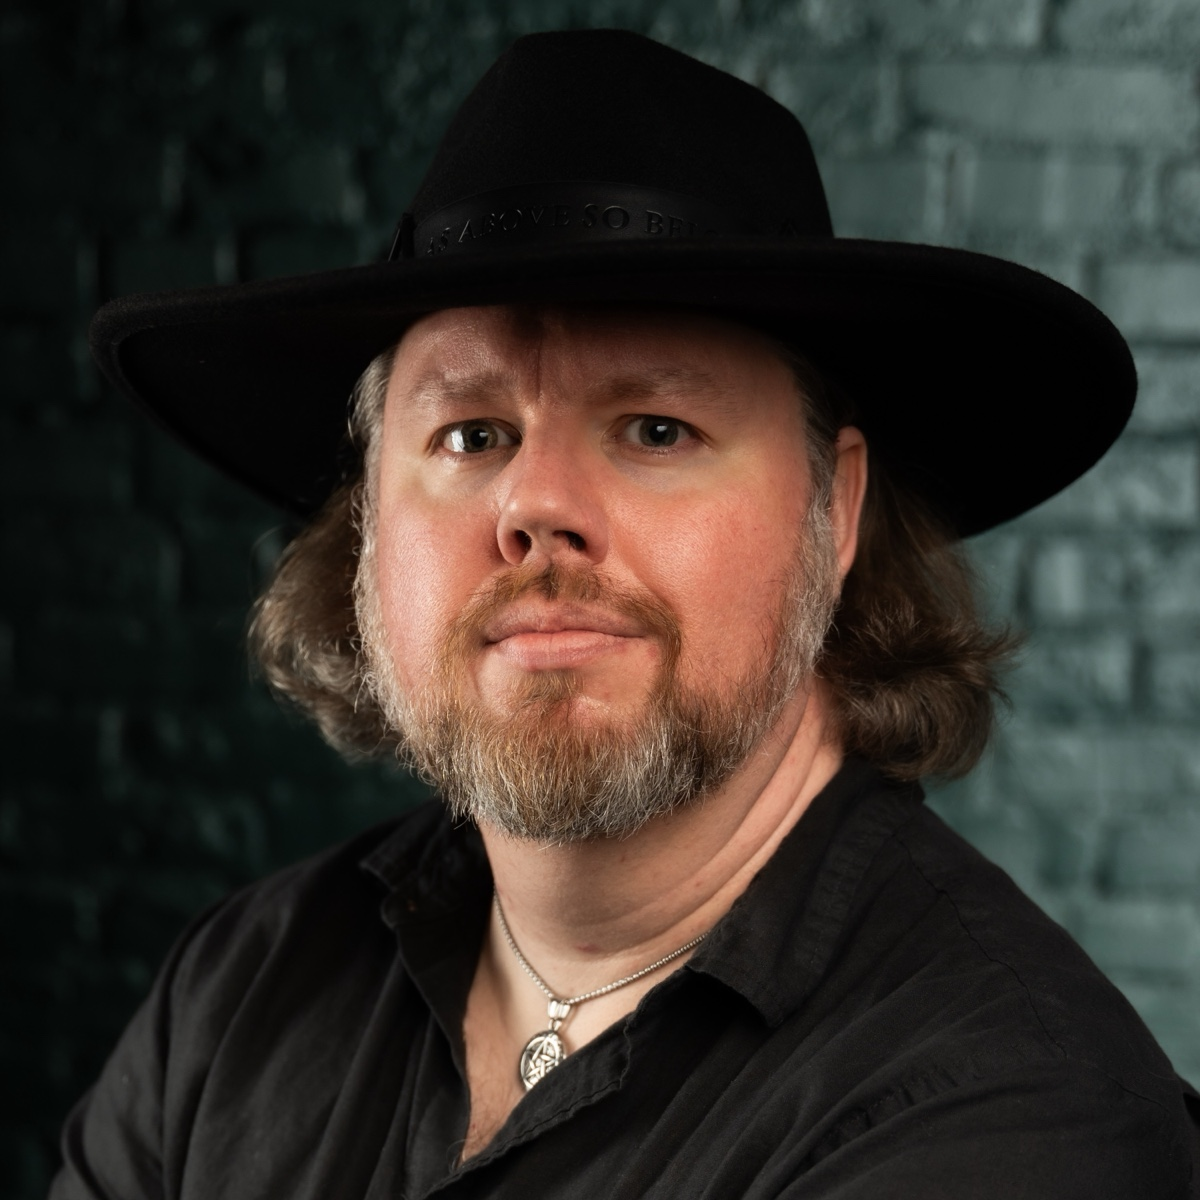
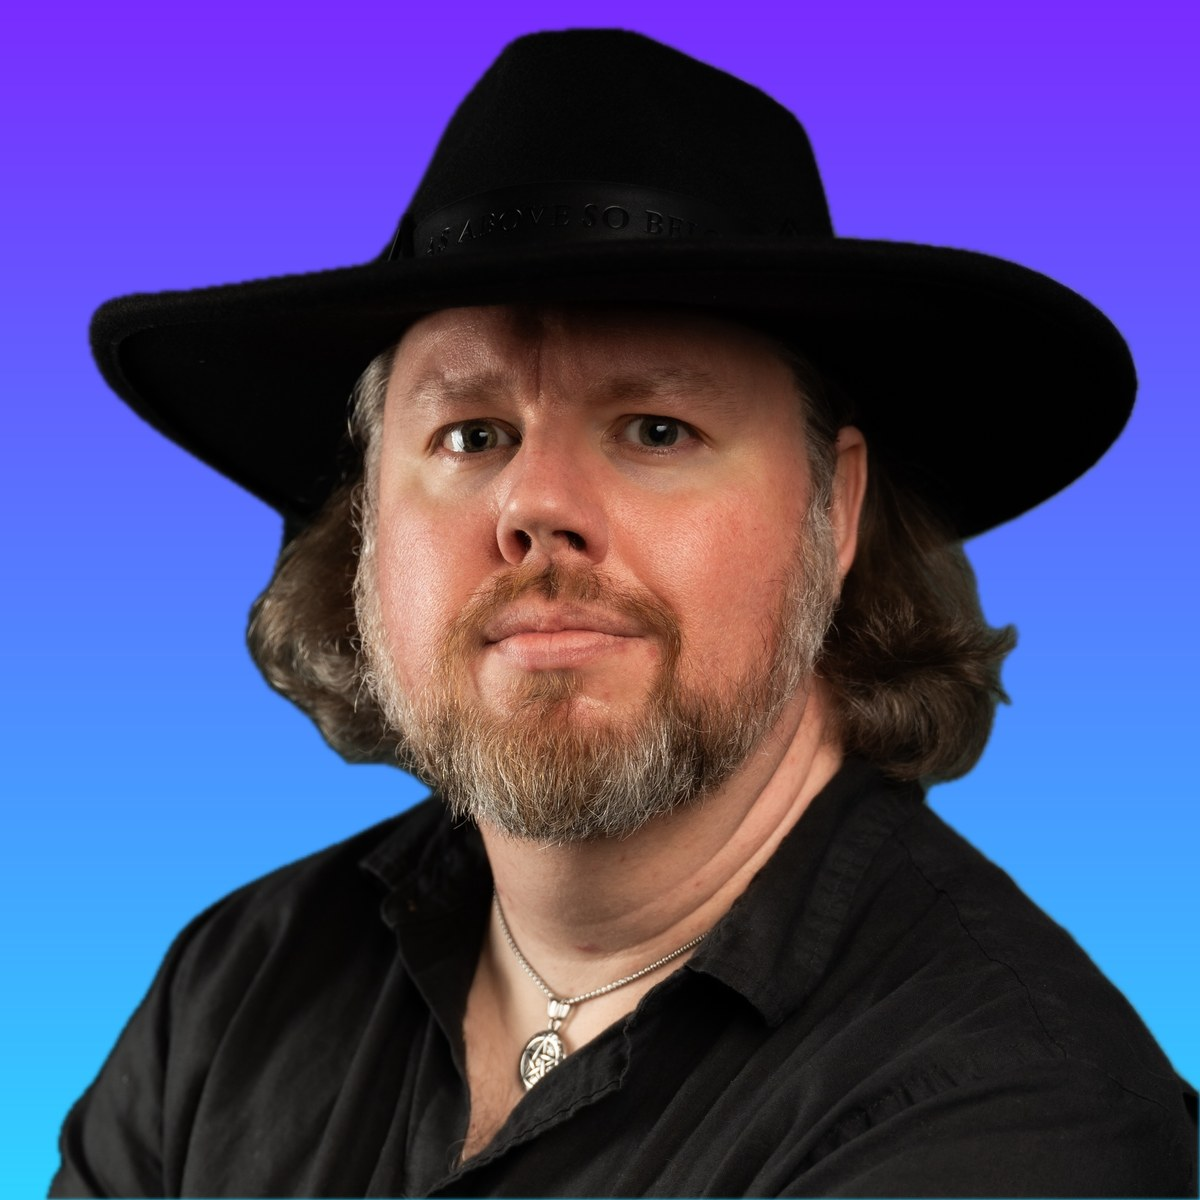
feat(about): headshot on violet-to-blue brand gradient
Background removed with macOS Vision subject masking and replaced with
the Electric Violet to Electric Blue gradient used across the site.

diff --git a/content/about.md b/content/about.md
@@ -3,7 +3,7 @@ title: "About"
 eyebrow: "Matt Stine · Falken's Mage"
 lede: "Falken's Mage is the name I make things under. Matt Stine is the name on my résumé. Same person, same brain, one website."
 photo: "images/matt-stine.jpg"
-photo_alt: "Matt Stine — black wide-brimmed hat, black shirt, pentacle pendant, against a dark brick wall"
+photo_alt: "Matt Stine — black wide-brimmed hat, black shirt, pentacle pendant, on a violet-to-blue gradient"
 ---
 
 If you got here from a technology organization: yes, this is me. I've spent twenty-five years in software. Right now I'm an Executive Director at CVS Health, leading delivery, reliability, and observability engineering for the Enterprise Data & AI Platforms. Before that I was a principal architect in JPMorgan Chase's Chief Technology Office, and before that Global Field CTO at Pivotal. I wrote *Migrating to Cloud-Native Application Architectures* for O'Reilly, and I'm writing their report on governing AI-generated code. The [full CV](/cv/) has the receipts.
